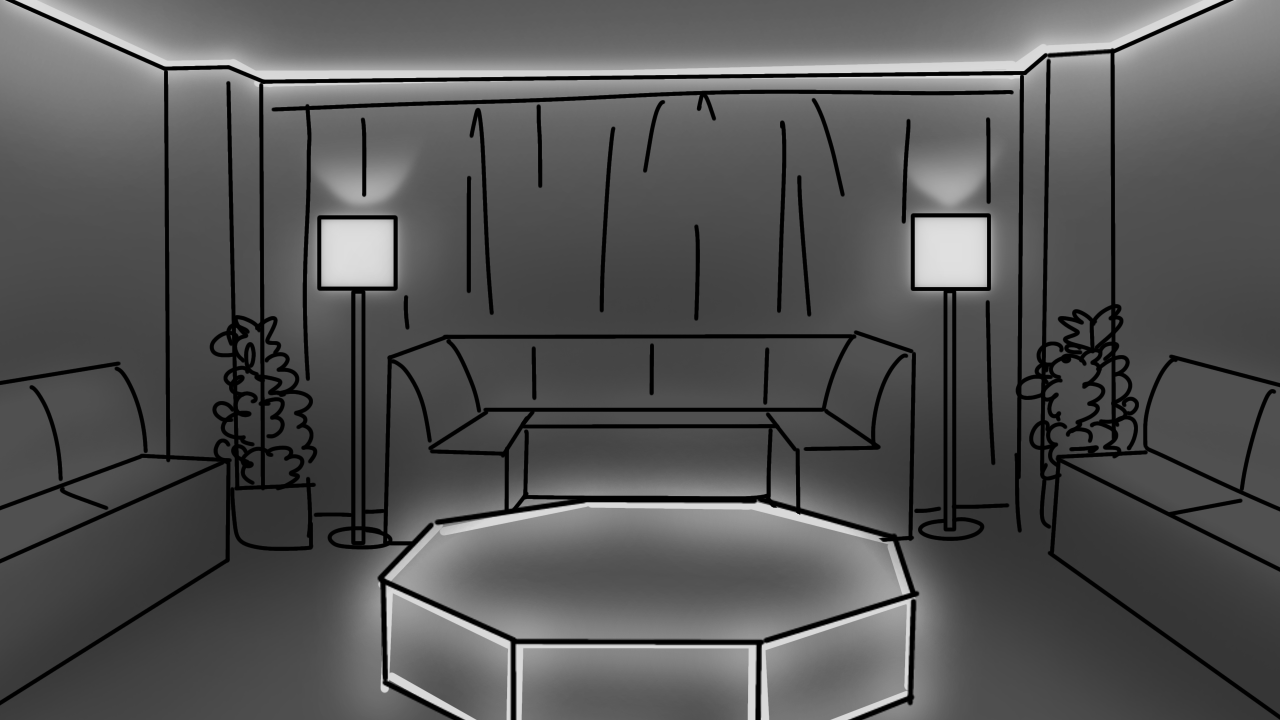
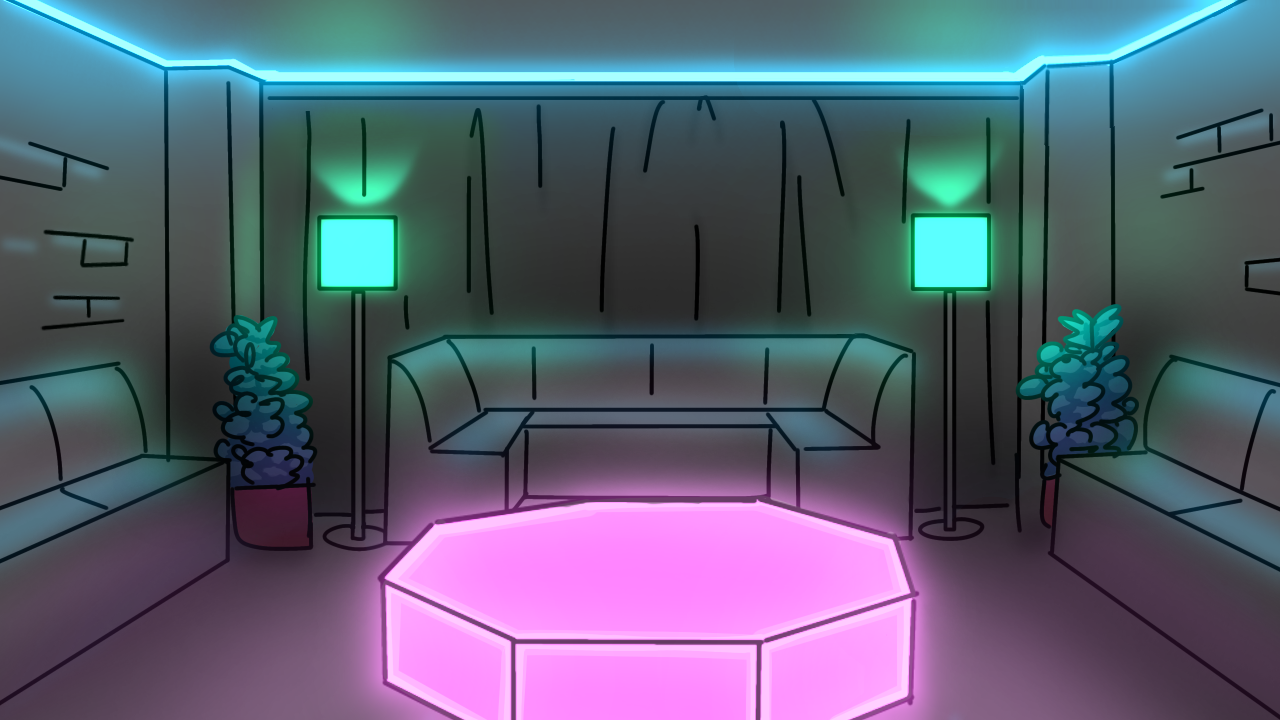
added fin club + priv room + button edits

diff --git a/MassArt2024_Story3/Assets/Scripts/Scene1Dialogue.cs b/MassArt2024_Story3/Assets/Scripts/Scene1Dialogue.cs
@@ -157,8 +157,8 @@ else if (primeInt == 9)
         }
         else if (primeInt == 13)
         {
-            Char1name.text = "";
-            Char1speech.text = "";
+            Char1name.text = "You";
+            Char1speech.text = "Right...";
             Char2name.text = "";
             Char2speech.text = "";
             // Turn off the "Next" button, turn on "Choice" buttons
